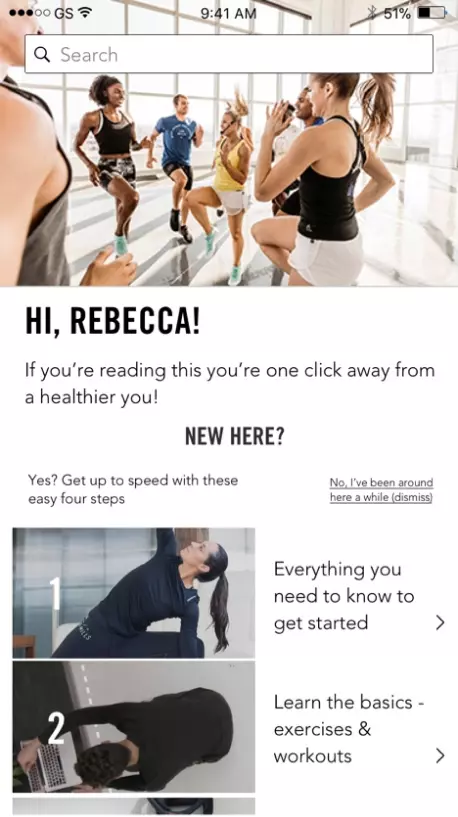
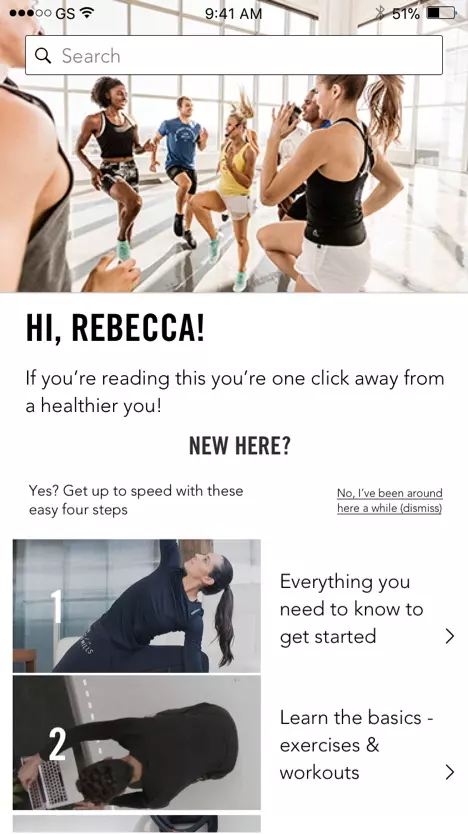
feat: restructure folder images and improve properly size images

diff --git a/case-study/les-mills.html b/case-study/les-mills.html
@@ -50,7 +50,7 @@
           </div>
         </div>
         <picture data-w-id="e96889f9-81d3-8bcc-3444-f073233b7b74" class="case-study-mobile-hero-right-column les-mills-mobile-hero-right-column w-col w-col-4">
-            <source media="(max-width: 479px)" width="262px" height="281px" srcset="../images/case-study/les-mills/webp/hero-mobile.webp" type="image/webp">
+            <source media="(max-width: 479px)" width="250px" height="281px" srcset="../images/case-study/les-mills/webp/hero-mobile.webp 1x, ../images/case-study/les-mills/webp/hero-mobile-retina.webp 2x" type="image/webp">
             <source srcset="../images/case-study/les-mills/webp/hero.webp" type="image/webp">
             <source srcset="../images/case-study/les-mills/png/hero.png" type="image/png">
             <img src="../images/case-study/les-mills/png/hero.png" alt="Screenshot of Les Mills user dashboard designed for iPhone and iPad." srcset="../images/case-study/les-mills/png/hero-mobile.png 500w, ../images/case-study/les-mills/png/hero.png 800w, ../images/case-study/les-mills/png/hero.png 1080w, ../images/case-study/les-mills/png/hero.png 1252w" sizes="(max-width: 479px) 72vw, (max-width: 767px) 75vw, (max-width: 991px) 51vw, 53vw" class="mobile-case-study-hero-image les-mills-hero">
@@ -68,7 +68,7 @@
   </div>
   <div data-w-id="3dcc5471-b943-1277-bb5e-2efdf4dcc09a" class="image-section-1 les-mills-image-section-1">
     <picture>
-      <source media="(max-width: 479px)" width="375px" height="131px" srcset="../images/case-study/les-mills/webp/les-mills-section-mobile.webp" type="image/webp">
+      <source media="(max-width: 479px)" width="375px" height="130px" srcset="../images/case-study/les-mills/webp/les-mills-section-mobile.webp 1x, ../images/case-study/les-mills/webp/les-mills-section-mobile-retina.webp 2x" type="image/webp">
       <source srcset="../images/case-study/les-mills/webp/les-mills-section.webp" type="image/webp">
       <source srcset="../images/case-study/les-mills/les-mills-section.jpg" type="image/jpg">
       <img loading="lazy" src="../images/case-study/les-mills/les-mills-section.jpg" alt="Image of athletic male on treadmill while using Les Mills video streaming mobile app. " srcset="../images/case-study/les-mills/les-mills-section-mobile.jpeg 500w, ../images/case-study/les-mills/les-mills-section.jpg 2000w, ../images/case-study/les-mills/les-mills-section.jpg 2160w" sizes="100vw" class="defer-transform image-section-1-bg">
@@ -89,49 +89,49 @@
       </div>
       <div data-w-id="76150e26-48a6-9b71-bba6-b3fce047e14f" class="w-layout-grid ux-screens ux-collection-wrapper">
         <picture id="w-node-db9c5752aba0-75a1d922" data-w-id="01c6c476-c438-046d-eabb-db9c5752aba0">
-          <source media="(max-width: 479px)" width="156px" height="277px" srcset="../images/case-study/les-mills/webp/variety-of-workouts.webp" type="image/webp">
+          <source media="(max-width: 479px)" width="156px" height="277px" srcset="../images/case-study/les-mills/webp/variety-of-workouts-mobile.webp 1x, ../images/case-study/les-mills/webp/variety-of-workouts.webp 2x" type="image/webp">
           <source srcset="../images/case-study/les-mills/webp/variety-of-workouts.webp" type="image/webp">
           <source srcset="../images/case-study/les-mills/variety-of-workouts.jpg" type="image/jpg">
           <img loading="lazy" src="../images/case-study/les-mills/variety-of-workouts.jpg" alt="Mid-fidelity wireframe of Les Mills mobile app, designed and developed by AgilityIO" class="ux-screen">
         </picture>
         <picture id="w-node-70af8a729b8e-75a1d922" data-w-id="78a60055-f2d1-afc5-6548-70af8a729b8e">
-          <source media="(max-width: 479px)" width="156px" height="277px" srcset="../images/case-study/les-mills/webp/boday-combat.webp" type="image/webp">
+          <source media="(max-width: 479px)" width="156px" height="277px" srcset="../images/case-study/les-mills/webp/boday-combat-mobile.webp 1x, ../images/case-study/les-mills/webp/boday-combat.webp 2x" type="image/webp">
           <source srcset="../images/case-study/les-mills/webp/boday-combat.webp" type="image/webp">
           <source srcset="../images/case-study/les-mills/boday-combat.jpg" type="image/jpg">
           <img src="../images/case-study/les-mills/boday-combat.jpg" alt="Mid-fidelity wireframe of Les Mills mobile app, designed and developed by AgilityIO" class="ux-screen">
         </picture>
         <picture id="w-node-e2caff8e8296-75a1d922" data-w-id="e5c2312e-b6d5-3244-0657-e2caff8e8296">
-          <source media="(max-width: 479px)" width="156px" height="277px" srcset="../images/case-study/les-mills/webp/wireframe.webp" type="image/webp">
+          <source media="(max-width: 479px)" width="156px" height="277px" srcset="../images/case-study/les-mills/webp/wireframe-mobile.webp 1x, ../images/case-study/les-mills/webp/wireframe.webp 2x" type="image/webp">
           <source srcset="../images/case-study/les-mills/webp/wireframe.webp" type="image/webp">
           <source srcset="../images/case-study/les-mills/wireframe.jpg" type="image/jpg">
           <img loading="lazy" src="../images/case-study/les-mills/wireframe.jpg" alt="Mid-fidelity wireframe of Les Mills mobile app, designed and developed by AgilityIO" class="ux-screen">
         </picture>
         <picture id="w-node-a9b2b2458d4d-75a1d922" data-w-id="f6bc0586-f218-520e-ad86-a9b2b2458d4d">
-          <source media="(max-width: 479px)" width="156px" height="277px" srcset="../images/case-study/les-mills/webp/wireframe-ticket.webp" type="image/webp">
+          <source media="(max-width: 479px)" width="156px" height="277px" srcset="../images/case-study/les-mills/webp/wireframe-ticket-mobile.webp 1x, ../images/case-study/les-mills/webp/wireframe-ticket.webp 2x" type="image/webp">
           <source srcset="../images/case-study/les-mills/webp/wireframe-ticket.webp" type="image/webp">
           <source srcset="../images/case-study/les-mills/wireframe-ticket.jpg" type="image/jpg">
           <img loading="lazy" src="../images/case-study/les-mills/wireframe-ticket.jpg" alt="Mid-fidelity wireframe of Les Mills mobile app, designed and developed by AgilityIO" class="ux-screen">
         </picture>
         <picture id="w-node-91283ae5522a-75a1d922" data-w-id="4df6e1ef-23b2-0a6d-0680-91283ae5522a">
-          <source media="(max-width: 479px)" width="156px" height="277px" srcset="../images/case-study/les-mills/webp/variety-lift-the-weight.webp" type="image/webp">
+          <source media="(max-width: 479px)" width="156px" height="277px" srcset="../images/case-study/les-mills/webp/variety-lift-the-weight-mobile.webp 1x, ../images/case-study/les-mills/webp/variety-lift-the-weight.webp 2x" type="image/webp">
           <source srcset="../images/case-study/les-mills/webp/variety-lift-the-weight.webp" type="image/webp">
           <source srcset="../images/case-study/les-mills/variety-lift-the-weight.jpg" type="image/jpg">
           <img loading="lazy" src="../images/case-study/les-mills/variety-lift-the-weight.jpg" alt="Screenshot of Les Mills mobile app user dashboard" class="ux-screen bottom-row">
         </picture>
         <picture id="w-node-6c5e2e163a67-75a1d922" data-w-id="6071f6e2-8900-fb53-04bc-6c5e2e163a67">
-          <source media="(max-width: 479px)" width="156px" height="277px" srcset="../images/case-study/les-mills/webp/variety-cadio.webp" type="image/webp">
+          <source media="(max-width: 479px)" width="156px" height="277px" srcset="../images/case-study/les-mills/webp/variety-cadio-mobile.webp 1x, ../images/case-study/les-mills/webp/variety-cadio.webp 2x" type="image/webp">
           <source srcset="../images/case-study/les-mills/webp/variety-cadio.webp" type="image/webp">
           <source srcset="../images/case-study/les-mills/variety-cadio.jpg" type="image/jpg">
           <img loading="lazy" src="../images/case-study/les-mills/variety-cadio.jpg" alt="Screenshot of Les Mills mobile app user dashboard" class="ux-screen bottom-row">
         </picture>
         <picture id="w-node-6c0258b2564a-75a1d922" data-w-id="e952de7d-b9f8-040b-b126-6c0258b2564a">
-          <source media="(max-width: 479px)" width="156px" height="277px" srcset="../images/case-study/les-mills/webp/variety-body-pump.webp" type="image/webp">
+          <source media="(max-width: 479px)" width="156px" height="277px" srcset="../images/case-study/les-mills/webp/variety-body-pump-mobile.webp 1x, ../images/case-study/les-mills/webp/variety-body-pump.webp 2x" type="image/webp">
           <source srcset="../images/case-study/les-mills/webp/variety-body-pump.webp" type="image/webp">
           <source srcset="../images/case-study/les-mills/variety-body-pump.jpg" type="image/jpg">
           <img loading="lazy" src="../images/case-study/les-mills/variety-body-pump.jpg" alt="Screenshot of Les Mills mobile app user dashboard" class="ux-screen bottom-row">
         </picture>
         <picture id="w-node-5a797bdae53f-75a1d922" data-w-id="448d036d-6f4f-c8fa-d3df-5a797bdae53f">
-          <source media="(max-width: 479px)" width="156px" height="277px" srcset="../images/case-study/les-mills/webp/wireframe-ticket-black.webp" type="image/webp">
+          <source media="(max-width: 479px)" width="156px" height="277px" srcset="../images/case-study/les-mills/webp/wireframe-ticket-black-mobile.webp 1x, ../images/case-study/les-mills/webp/wireframe-ticket-black.webp 2x" type="image/webp">
           <source srcset="../images/case-study/les-mills/webp/wireframe-ticket-black.webp" type="image/webp">
           <source srcset="../images/case-study/les-mills/wireframe-ticket-black.jpg" type="image/jpg">
           <img loading="lazy" src="../images/case-study/les-mills/wireframe-ticket-black.jpg" alt="Screenshot of Les Mills mobile app user dashboard" class="ux-screen bottom-row"></div>
